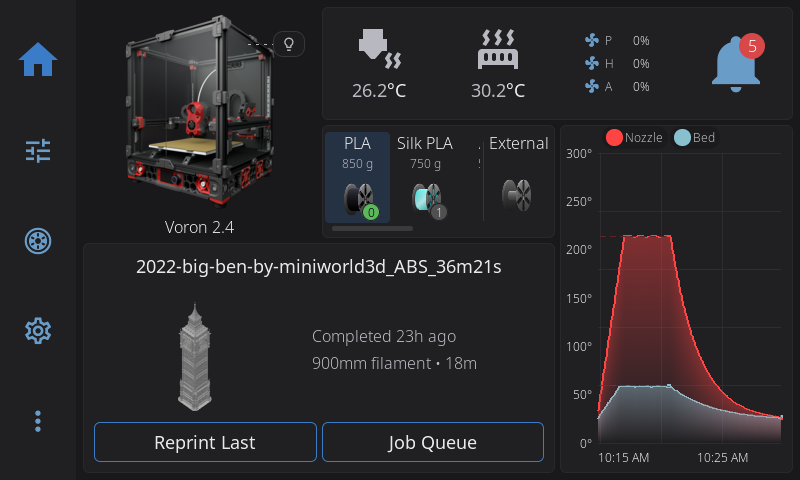
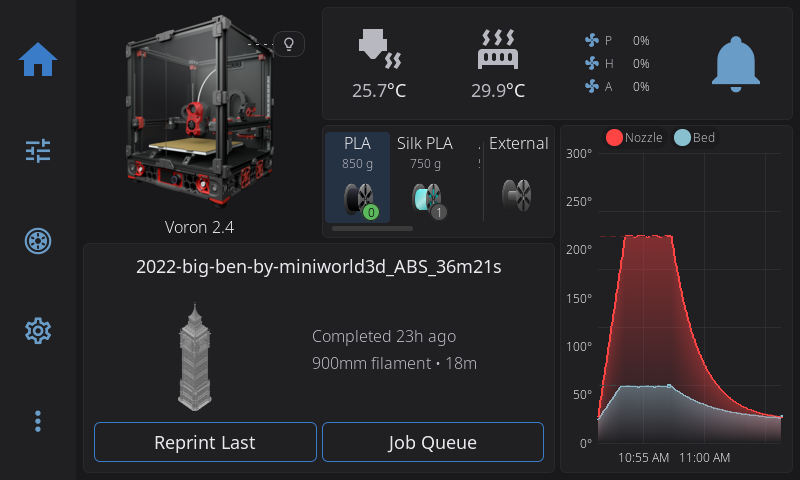
docs(images): drop the seeded notification badge, settle the network scan, move the AMS callout

diff --git a/scripts/doc_screenshots.py b/scripts/doc_screenshots.py
@@ -33,7 +33,7 @@ MANIFEST = REPO_ROOT / "docs" / "images" / "doc-screenshots.yml"
 
 KINDS = ("app", "manual")
 ANCHORS = ("center", "top_left", "top_right", "bottom_left", "bottom_right")
-APP_FIELDS = ("recipe", "steps", "env", "size", "crop", "margin", "markers", "wizard")
+APP_FIELDS = ("recipe", "steps", "env", "size", "crop", "margin", "markers", "wizard", "settle")
 # The setup wizard's steps in the app's StepId order (include/wizard_step.h);
 # the index is what --wizard-step takes. A test pins the two together.
 WIZARD_STEPS = (
@@ -76,6 +76,9 @@ class Entry:
     source: Optional[str] = None
     recapture: Optional[str] = None
     wizard: Optional[str] = None
+    # Seconds to wait before the capture, for a screen filled by a slow async
+    # scan; None keeps the default.
+    settle: Optional[float] = None
 
 
 def recipe_tokens(script: Path = RECIPES_SCRIPT) -> list[str]:
@@ -153,6 +156,7 @@ def _parse_entry(raw: dict, tokens: set) -> Entry:
         margin=int(raw.get("margin", DEFAULT_MARGIN)),
         markers=_parse_markers(path, raw.get("markers")),
         wizard=wizard,
+        settle=float(raw["settle"]) if "settle" in raw else None,
     )
 
 
@@ -271,7 +275,7 @@ def capture(entry: Entry, session, out_root: Path) -> Path:
         session.ctl(*shlex.split(step))
     # Overlays and demo screens land asynchronously; let them, as screenshot.sh does.
     session.ctl("wait_idle")
-    time.sleep(SETTLE_SECONDS)
+    time.sleep(entry.settle if entry.settle is not None else SETTLE_SECONDS)
     # Stop animations and the mock's simulation, so the shot and the geometry
     # describe the same frame and come out the same every run.
     session.ctl("freeze")
@@ -366,10 +370,21 @@ class AppSession:
         for _ in range(120):
             if self.sock.exists() and self._try("ping"):
                 time.sleep(2)
+                if self.wizard is None:
+                    self.clear_notification_history()
                 return self
             time.sleep(0.5)
         self.__exit__(None, None, None)
         raise RuntimeError(f"the app did not answer on {self.sock}")
+
+    def clear_notification_history(self) -> None:
+        """Empty the notification list --test seeds, so the home bell shows no
+        unread badge. A layout without the bell ignores the failed click."""
+        for args in (("click", "status_notification_icon"), ("wait_idle",),
+                     ("click", "action_button"), ("wait_idle",), ("navigate", "home"),
+                     ("wait_idle",)):
+            if not self._try(*args):
+                return
 
     def _try(self, *args) -> bool:
         r = subprocess.run([str(self.binary), "ctl", "-s", str(self.sock), *args],
